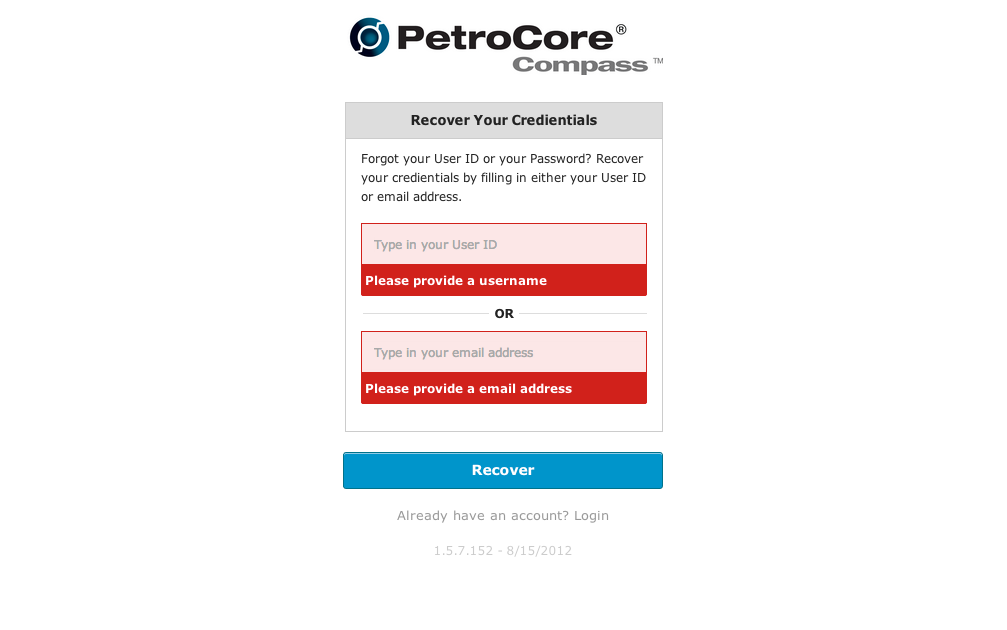
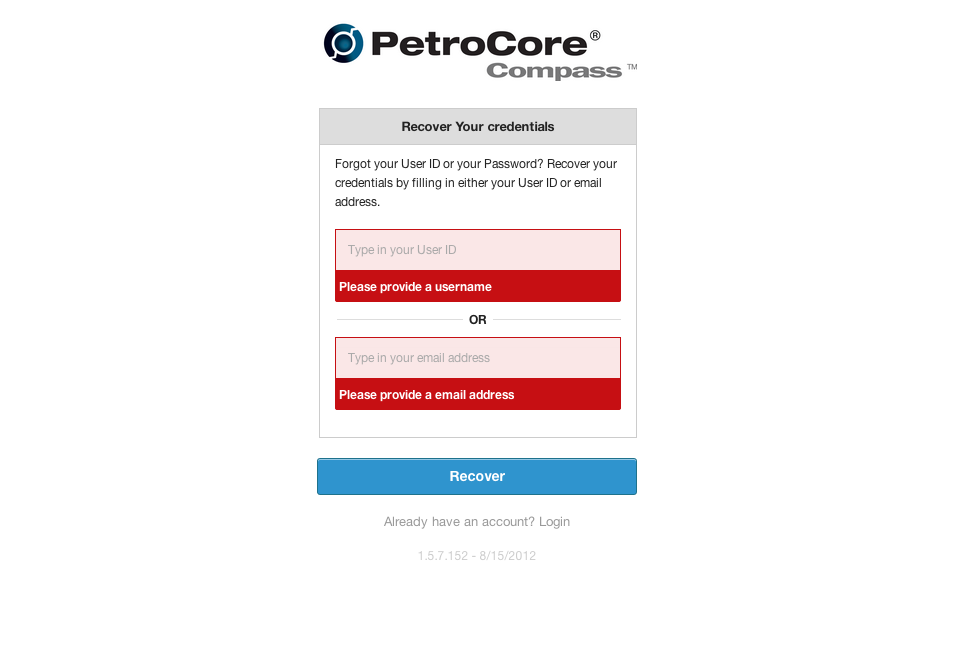
Added new screenshots to reflect the latest changes. Fix spelling error on "credentials".

Changed region(s): [[0.3347, 0.1508, 0.6695, 0.7841], [0.3347, 0.0302, 0.6695, 0.1206], [0.3956, 0.8143, 0.6086, 0.8444]]

diff --git a/login.html b/login.html
@@ -95,19 +95,19 @@ ul {list-style-type: none;}
   </div>
     <div class="nine columns">
       <h2>Login</h2>
-        <p>As shown below, this is the login screen for both Desktop and Tablet devices. A good use of the login screen is when a user needs to provide credientials before getting access to a restricted page or a portal.</p>
-        <p>The login screen requires the user to provide a User ID and a password. When the user doesn't remember either of the above, they can go to the "Forgot your User ID or Password?" link and be given further instructions on how to recover their credientials.</p>
+        <p>As shown below, this is the login screen for both Desktop and Tablet devices. A good use of the login screen is when a user needs to provide credentials before getting access to a restricted page or a portal.</p>
+        <p>The login screen requires the user to provide a User ID and a password. When the user doesn't remember either of the above, they can go to the "Forgot your User ID or Password?" link and be given further instructions on how to recover their credentials.</p>
         <p>The login system should consists of three pages:</p>
         <ul class="square">
           <li><strong>Login page:</strong> usually known as the landing page or the portal page before accessing the web application.</li>
-          <li><strong>Recovery page:</strong> where the user recovers their credientials.</li>
-          <li><strong>Confirmation page:</strong> a success page with further instructions for the user to recover their credientials.</li>
+          <li><strong>Recovery page:</strong> where the user recovers their credentials.</li>
+          <li><strong>Confirmation page:</strong> a success page with further instructions for the user to recover their credentials.</li>
         </ul>
         <hr>
 
         <h3>Desktop &amp; Tablet</h3>
         <h4>Login Page</h4>
-        <p><img src="images/login-screen-a.jpg" alt="Login Desktop 1" style="border: 1px solid #717171;"></p>
+        <p><img src="images/login-screen-a.png" alt="Login Desktop 1" style="border: 1px solid #717171;"></p>
         <h4>Recovery Page</h4>
         <p><img src="images/login-recover-screen.png" alt="Login Desktop 2" style="border: 1px solid #717171;"></p>
         <h4>Confirmation Page</h4>
@@ -116,7 +116,7 @@ ul {list-style-type: none;}
         <hr>
         <h3>Multi-language Selection</h3>
         <p>Under the "Forgot Your User ID or Password?" link, users can choose the language that suits their preference. The language choices are displayed in a <strong>select</strong> dropdown as shown below:</p>
-        <img src="images/login-screen-c.jpg"  style="border: 1px solid #717171;"/>
+        <img src="images/login-screen-b.png"  style="border: 1px solid #717171;"/>
 
         <hr>
 
@@ -131,7 +131,7 @@ ul {list-style-type: none;}
 
         <h3>Smartphone</h3>
         <p>With the responsive framework, the login screen should look similar to what's being viewed on the Desktop and Tablet. It is also made to fit on a smartphone with no zoom or scaling.</p>
-        <p><img src="images/login-phone-screen-2.jpg" alt="Login Phone" style="border: 1px solid #717171;"></p>
+        <p><img src="images/login-phone-screen-2.png" alt="Login Phone" style="border: 1px solid #717171;"></p>
         <hr>
      
 

diff --git a/demo/forgot-credentials-error.html b/demo/forgot-credentials-error.html
@@ -8,7 +8,7 @@
   <!-- Set the viewport width to device width for mobile -->
   <meta name="viewport" content="initial-scale=1.0, user-scalable=no">
 
-  <title>Recover Your Credientials [Form Errors] - PetroCore Compass</title>
+  <title>Recover Your credentials [Form Errors] - PetroCore Compass</title>
   
   <!-- Included CSS Files (Uncompressed) -->
   <!--
@@ -39,7 +39,7 @@
 
 <div class="login-header">
   <div class="login-row">
-    <h2>Recover Your Credientials</h2>
+    <h2>Recover Your credentials</h2>
   </div><!-- /login-row -->
 </div><!-- /login-header -->
 
@@ -48,7 +48,7 @@
   <div class="login-info">
     <div class="login-row">
       <div class="login-info-content">
-        <p>Forgot your User ID or your Password? Recover your credientials by filling in either your User ID or email address.</p>
+        <p>Forgot your User ID or your Password? Recover your credentials by filling in either your User ID or email address.</p>
         <p>
           <input class="error" type="text" placeholder="Type in your User ID" />
           <small class="error">Please provide a username</small>

diff --git a/demo/forgot-credentials.html b/demo/forgot-credentials.html
@@ -8,7 +8,7 @@
   <!-- Set the viewport width to device width for mobile -->
   <meta name="viewport" content="initial-scale=1.0, user-scalable=no">
 
-  <title>Recover Your Credientials - PetroCore Compass</title>
+  <title>Recover Your credentials - PetroCore Compass</title>
   
   <!-- Included CSS Files (Uncompressed) -->
   <!--
@@ -39,7 +39,7 @@
 
 <div class="login-header">
   <div class="login-row">
-    <h2>Recover Your Credientials</h2>
+    <h2>Recover Your credentials</h2>
   </div><!-- /login-row -->
 </div><!-- /login-header -->
 
@@ -48,7 +48,7 @@
   <div class="login-info">
     <div class="login-row">
       <div class="login-info-content">
-        <p>Forgot your User ID or your Password? Recover your credientials by filling in either your User ID or email address.</p>
+        <p>Forgot your User ID or your Password? Recover your credentials by filling in either your User ID or email address.</p>
         <p>
           <input type="text" placeholder="Type in your User ID" />
         </p>

diff --git a/demo/index-error.html b/demo/index-error.html
@@ -86,7 +86,7 @@
 <div class="login-footer">
   <div class="login-row">
     <a class="primary radius button login-button" href="petrocore-dashboard.html">Login</a>
-    <p class="centered"><a href="forgot-credientials.html" class="forgot_pw_link">Forgot your User ID or Password?</a></p>
+    <p class="centered"><a href="forgot-credentials.html" class="forgot_pw_link">Forgot your User ID or Password?</a></p>
     <p class="centered faded">1.5.7.152 - 8/15/2012</p>
     <div class="disclaimer">
       <h4>Disclaimer:</h4>

diff --git a/demo/z_index.html b/demo/z_index.html
@@ -74,7 +74,7 @@
 <div class="login-footer">
   <div class="login-row">
     <a class="primary radius button login-button" href="petrocore-dashboard.html">Login</a>
-    <p class="centered"><a href="forgot-credientials.html" class="forgot_pw_link">Forgot your User ID or Password?</a></p>
+    <p class="centered"><a href="forgot-credentials.html" class="forgot_pw_link">Forgot your User ID or Password?</a></p>
     <p class="centered faded">1.5.7.152 - 8/15/2012</p>
     <div class="disclaimer">
       <h4>Disclaimer:</h4>

diff --git a/demo/recover-confirmation.html b/demo/recover-confirmation.html
@@ -48,7 +48,7 @@
   <div class="login-info">
     <div class="login-row">
       <div class="login-info-content">
-        <p>Thank you! Please check your email address for further instructions on how to recover your credientials.</p>
+        <p>Thank you! Please check your email address for further instructions on how to recover your credentials.</p>
       </div><!-- /login-info-content -->
     </div><!-- /login-row -->
   </div><!-- /login-info -->

diff --git a/demo/index.html b/demo/index.html
@@ -75,7 +75,7 @@
 <div class="login-footer">
   <div class="login-row">
     <a class="primary radius button login-button" href="petrocore-dashboard.html">Login</a>
-    <p class="centered"><a href="forgot-credientials.html" class="forgot_pw_link">Forgot your User ID or Password?</a></p>
+    <p class="centered"><a href="forgot-credentials.html" class="forgot_pw_link">Forgot your User ID or Password?</a></p>
     
 	<div id="language-wrapper">
 
